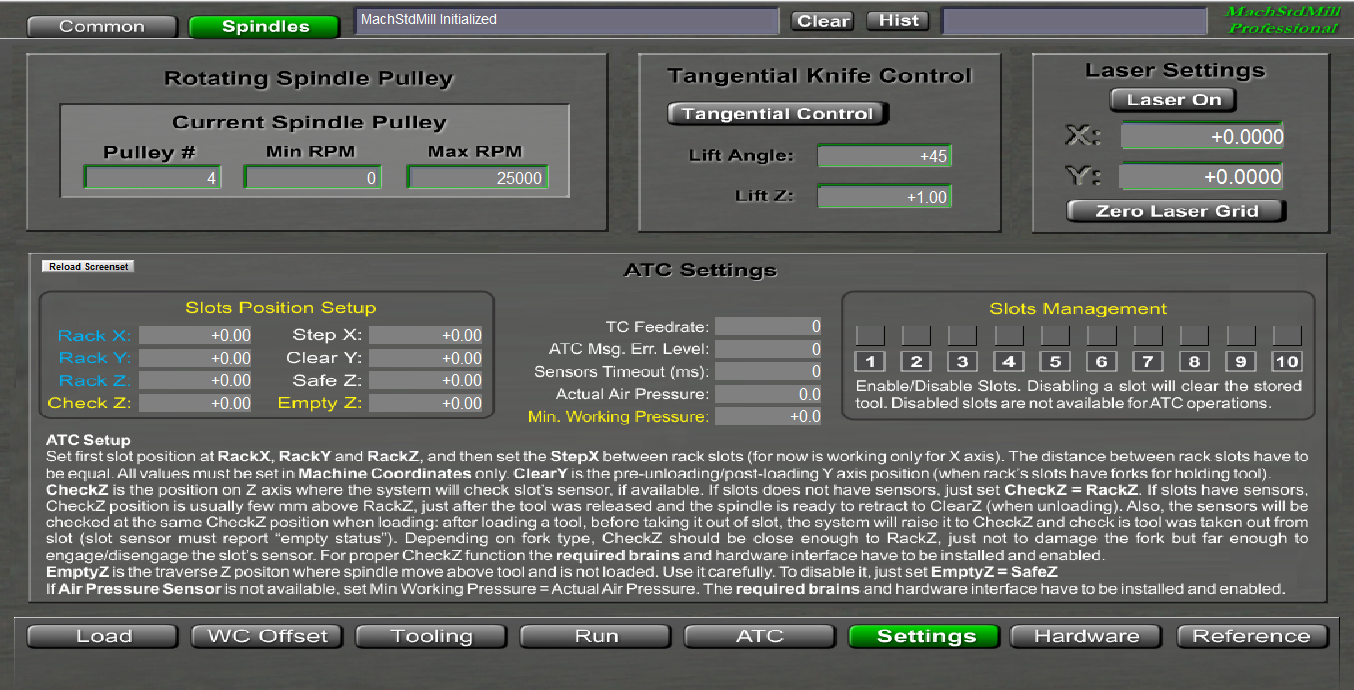
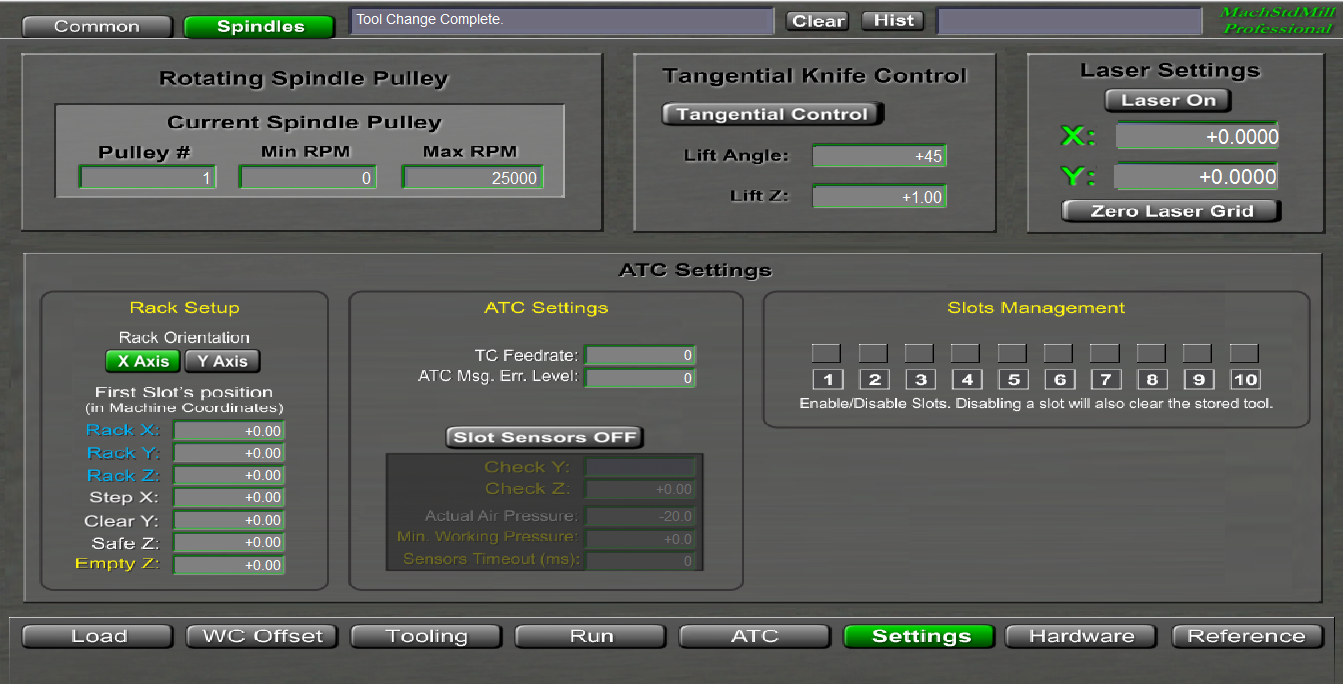
updated README.md

diff --git a/README.md b/README.md
@@ -17,27 +17,27 @@
 
  
 ### Configuration of MSM_ATC - Settings/Spindles Page
-- MSM_ATC is able to work with fixed racks aligned on X or Y Axis. Select the desired axis by pressing the <i>invisible</i> button which is above "Step" and "Clear" labels in Settings/Spindles page. After pressing it a confirmation dialog will ask for confirmation and the labels should switch from Step X to Step Y and from Clear Y to Clear X, or vice versa, if Y axis was previously selected.
+- MSM_ATC is able to work with fixed racks aligned on X or Y Axis. Select the desired axis in Settings/Spindles page. After changing it a  the labels should switch from Step X to Step Y and from Clear Y to Clear X, or vice versa, if Y axis was previously selected.
 - First time we have to declare the first slot's position. This is the position where the first slot's tool is load or released. Set it by filling Rack X, Rack Y and Rack Z fields. All values have to be in Machine Coordinates only!
 - If the rack is built with holding forks, the tool have to be removed from or returned to the fork by an additional movement along Y-Axis (if rack is aligned along X-Axis). The Y-Axis position from where this additional movement is starting or ending is called Clear Y (or Clear X for Y-Axis aligned rack). Set the Clear Y (or Clear X for Y-Axis aligned rack) field as an Y-Axis (or X-Axis) position where the tool can be clearly moved up or down, in front of slot's forks.
 - If this additional movement is not needed just set Clear Y (Clear X) with the same value with Rack Y (Rack X, for Y-Axis aligned rack). In this case the tool will be loaded or returned only by a vertical movement along Z-Axis. 
 -  Step X (Step Y, for X-Axis aligned rack) is the distance between each adjacent slots of the rack, along X Axis (or Y Axis).
 -  Safe Z is the Z-Axis position where the spindle is raised when ATC operations occur.
--  MSM_ATC can handle reporting status for each slot of the rack. For now, because the sensor's brain and hardware interface is not configured, we will disable this function. To disable this function we have to set the Check Z value with the same value of Rack Z. If Check Z == Rack Z, this feature is disabled and the ATC system is running in blind mode. The use of these sensors will be explained later. 
+-  MSM_ATC can handle reporting status sensors for each slot of the rack. By default, the slot sensors are disabled and the system is running in blind mode. 
 -  Empty Z - USE WITH CAUTION! - will allow the machine to move above tool holders at a different position when the spindle does not have tool loaded (when empty spindle). This is helpful for long Z-Axis machines and prevent  the return to Safe Z when the spindle is empty and can travel at a lower Z-Axis position when empty. To disable this intermediary position, just set Empty Z as the same value with Safe Z. This is also recommended for now.
 -  TC Feedrate is the speed for ATC operations.
 -  ATC Msg. Err. Level - is the level of reported ATC messages. For debugging set a higher value, like 5, which will report any ATC operation. For regular run, set this level at 1 or 2, only basic operation is reported.
--  Sensors Timeout - this is a delay used when checking for slot sensor's status. In some condition, the status is delayed and this waiting time is required. If sensors use is enabled and checked, after this delay the system report the error (if still in error condition) and give to the user the possibility to abort, recheck or ignore the sensor's status inside ATC operations.
-- Actual Air Pressure is the air pressure reported by Arduino Sensors (if available). This is a readonly value.
-- Min. Working Pressure is the minimum working pressure for properly ATC operations. If no air pressure or nor Arduino Sensors Board available, set it equal or lower (even negative values are allowed) with Actual Air Pressure.
-- Slots Management - By default all 10 slots are disabled. You have to enable all the needed (available) slots you want to use. If needed, each slot can be enabled/disabled individually.
-- Disabling a slot will also remove it's previously loaded tool. Re-enabling a slot will enable the slot as an empty slot (tool no. 0). 
+
 
 ### Slot Sensors
 - MSM_ATC can handle slot sensors. The sensors status have to be passed to OEM Trig #1 - #10 inputs. Because Mach3 alone cannot handle more than 2 parallel ports, a different way for passing slot's sensors status could be an Arduino board which communicate with Mach3 through Modbus protocol and some brains.
 - The Arduino code could be found in _Doc folder and was tested with Arduino Uno and Mega 2560. It will require a serial modbus communication device installed and configured for Mach3.
 - The schematic:  ![Arduino Schematic Diagram](_Doc/Images/Arduino_Schematic_Diagram.PNG) S1-S10 are NO switches. When tool is in slot the switch is closed. A and B pins are connected to the Modbus. Make sure the Arduino board will be properly powered.
-- For reading slot sensors status a brain is required. I made a brain which can be found in "Brains" folder. This brain - _arduino_modbus_oemtrigs.brn - have to be enabled in Mach3/Operator/Brain Control menu.
+- For reading slot sensors status a brain is required. I made a brain which can be found in "Brains" folder. This brain - arduino_modbus_oemtrigs.brn - have to be enabled in Mach3/Operator/Brain Control menu.
 - If Mach3 is running with some motion controller like UCCNC which provide more inputs pins, the Ardunio board is not required. Just config OEM Trig #1 to #10 to physical inputs. The brain will not be also required.
-- 
-
+- CheckZ (and CheckY/CheckX, soon) is an additional position where the system is checking and waiting for slot's status (have tool in it, have no tool). These additional positions depends on the rack's design. For a simple rack like this ![Simple Rack](_Doc/Images/Werkzeugmagazin_0.jpg) where toolholders can be loaded or retrieved by a vertical movement, the CheckZ position should be few milimeters above RackZ.
+- Sensors Timeout - this is a delay used when checking for slot sensor's status. In some condition, the status is delayed and this waiting time is required. If sensors use is enabled and checked, after this delay the system report the error (if still in error condition) and give to the user the possibility to abort, recheck or ignore the sensor's status inside ATC operations.
+- Actual Air Pressure is the air pressure reported by Arduino Sensors (if available). This is a readonly value.
+- Min. Working Pressure is the minimum working pressure for properly ATC operations. If no air pressure or nor Arduino Sensors Board available, set it equal or lower (even negative values are allowed) with Actual Air Pressure.
+- Slots Management - By default all 10 slots are disabled. You have to enable all the needed (available) slots you want to use. If needed, each slot can be enabled/disabled individually.
+- Disabling a slot will also remove it's previously loaded tool. Re-enabling a slot will enable the slot as an empty slot (tool no. 0). 
